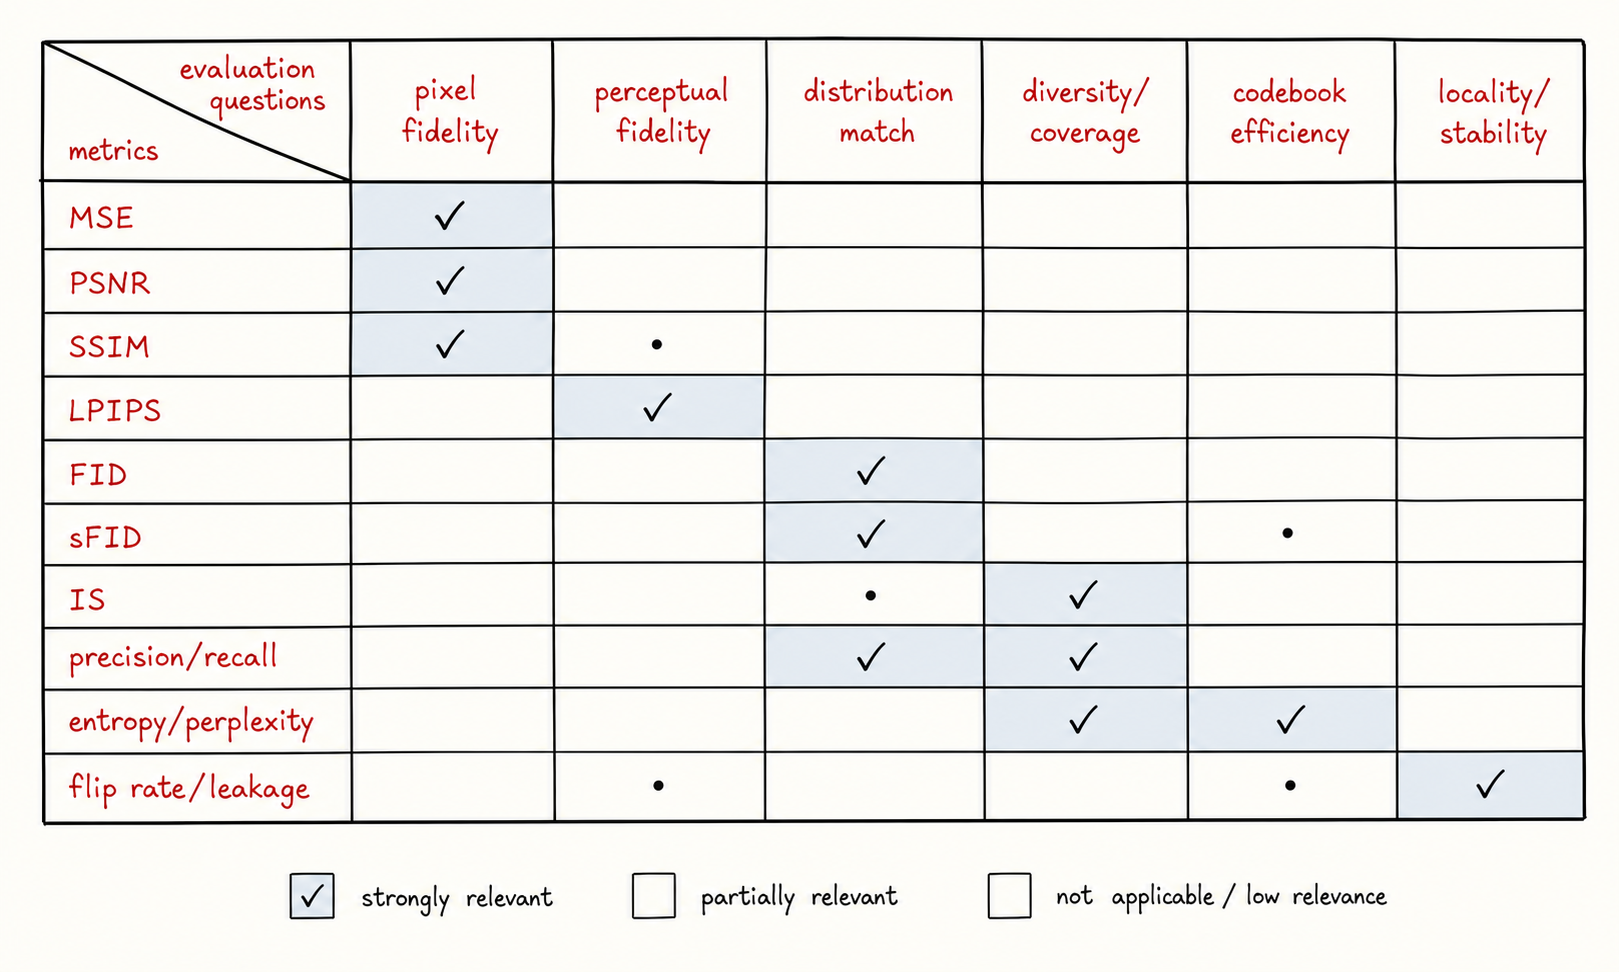
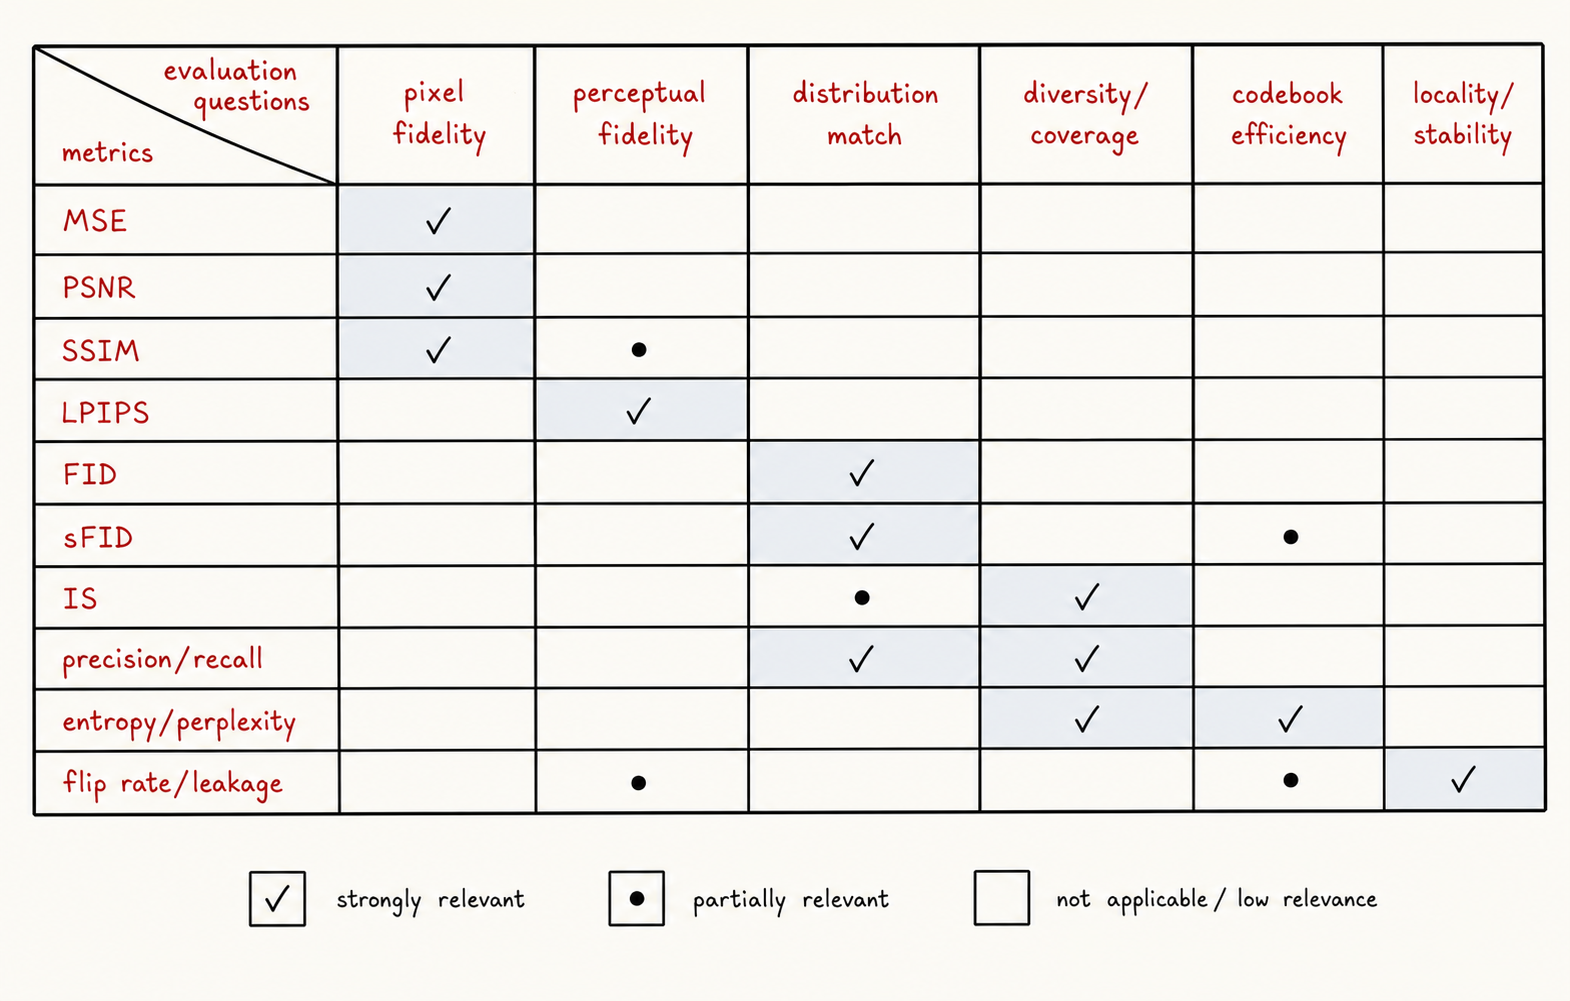
Refine thesis equations and Chapter 3 datasets

Changed region(s): [[0.0, 0.0309, 0.9987, 0.9568]]

diff --git a/Chapters/ch03_datasets_models_metrics.tex b/Chapters/ch03_datasets_models_metrics.tex
@@ -93,7 +93,23 @@ ImageNet-Sketch (Wang et al., 2019) emphasizes shape over texture, so it is a st
 \subsection{Other Candidate Datasets}
 \label{subsec:other_candidate_datasets}
 
-Additional OOD datasets may be used for ablations, but the core analysis uses the three datasets above to keep distribution-shift conclusions interpretable.
+The three datasets above are all ImageNet-derived or ImageNet-aligned: ImageNet validation is the in-distribution reference, ImageNet-V2 keeps the same label space under a new natural-image collection process, and ImageNet-Sketch keeps the ImageNet label space but changes the visual style. To test whether conclusions depend only on ImageNet-like semantics, the broader dataset suite also includes non-ImageNet datasets: ObjectNet~\cite{barbu2019objectnet}, BloodMNIST and OrganAMNIST from MedMNIST v2~\cite{yang2023medmnist}, and RVL-CDIP~\cite{harley2015rvlcdip}. These datasets were chosen because they change not only appearance but also domain: controlled household objects, microscopic blood-cell images, abdominal CT slices, and scanned document pages.
+
+\begin{table}[h]
+    \centering
+    \small
+    \begin{tabularx}{\textwidth}{l l r l}
+        \textbf{Dataset} & \textbf{Content} & \textbf{Images used} & \textbf{Hypothesized shift from ImageNet variants} \\ \hline
+        ObjectNet & controlled object photos with varied viewpoints and backgrounds & 50{,}273 & medium--high: natural objects remain, but pose/background biases differ \\
+        BloodMNIST & microscopic RGB blood-cell images, 8 classes & 17{,}092 & high: biomedical microscopy, local texture dominates over natural scenes \\
+        OrganAMNIST & abdominal CT slices, 11 organ classes & 57{,}187 & very high: grayscale medical imaging with different intensity statistics \\
+        RVL-CDIP & scanned document pages, 16 document classes & 39{,}996 & very high: document layout and text-like structure rather than natural images \\
+    \end{tabularx}
+    \caption{Non-ImageNet datasets used for additional distribution-shift analysis. The table reports the number of images used in the tokenizer experiments, not necessarily the full source-dataset size; RVL-CDIP, for example, is a 400{,}000-image dataset in full.}
+    \label{tab:non_imagenet_datasets}
+\end{table}
+
+These datasets are not treated as replacements for the ImageNet-based severity ladder. Instead, they are used as domain-shift checks: if a tokenizer's codebook statistics remain stable on ImageNet-V2 and ImageNet-Sketch but change strongly on medical or document images, the result suggests domain specialization rather than a generic failure of the measurement pipeline.
 
 \begin{figure}[t]
     \centering
@@ -105,7 +121,7 @@ Additional OOD datasets may be used for ablations, but the core analysis uses th
 \section{Metrics}
 \label{sec:metrics}
 
-No single scalar captures all of these properties simultaneously, so the metrics below are intentionally redundant. Each section defines the metric and explains its limitations and how it is used in combination with the others.
+No single scalar captures all of these properties simultaneously, so the metrics below are intentionally redundant. The metric taxonomy in Figure~\ref{fig:metric_taxonomy_matrix} is organized around six evaluation criteria, defined before the individual metrics.
 
 \begin{figure}[t]
     \centering
@@ -114,15 +130,31 @@ No single scalar captures all of these properties simultaneously, so the metrics
     \label{fig:metric_taxonomy_matrix}
 \end{figure}
 
+\subsection{Evaluation Criteria}
+\label{subsec:evaluation_criteria}
+
+The columns in Figure~\ref{fig:metric_taxonomy_matrix} refer to the following criteria:
+
+\begin{itemize}
+\item \textbf{Pixel fidelity}: agreement between an input image $x$ and reconstruction $\hat{x}$ at the level of aligned pixel intensities. This criterion is sensitive to small spatial shifts and low-level errors.
+\item \textbf{Perceptual fidelity}: agreement between $x$ and $\hat{x}$ in terms of visual structure or learned feature representations. This criterion is intended to better approximate human perceptual similarity than raw pixel error.
+\item \textbf{Distribution match}: similarity between the empirical distribution of reconstructed or generated images and the reference image distribution in a feature space.
+\item \textbf{Diversity/coverage}: the extent to which reconstructions or generated samples cover the modes of the reference distribution rather than concentrating on a narrow subset.
+\item \textbf{Codebook efficiency}: how effectively the tokenizer uses its discrete vocabulary, including active-code count, entropy, perplexity, and concentration in frequent codes.
+\item \textbf{Locality/stability}: how spatially confined and stable the tokenizer response is under perturbations, either in image space through the encoder or in token space through the decoder.
+\end{itemize}
+
+These criteria are not mutually exclusive. For example, SSIM partly reflects perceptual structure while still being computed from image-space comparisons, and precision/recall connects distributional quality with coverage. The taxonomy should therefore be read as a guide to interpretation rather than a strict partition of metrics.
+
 \subsection{Pixel-Domain Reconstruction Metrics (MSE, PSNR)}
 \label{subsec:mse_psnr}
 
 Mean squared error (MSE) and peak signal-to-noise ratio (PSNR) are full-reference pixel metrics. For image pairs $(x, \hat{x})$ with $N$ scalar pixels:
 
-\begin{align}
-\mathrm{MSE}(x, \hat{x}) &= \frac{1}{N} \sum_i (x_i - \hat{x}_i)^2 \\
+\begin{alignat}{2}
+\mathrm{MSE}(x, \hat{x})  &= \frac{1}{N} \sum_i (x_i - \hat{x}_i)^2 \\
 \mathrm{PSNR}(x, \hat{x}) &= 10\,\log_{10}\!\left(\frac{\mathrm{MAX}^2}{\mathrm{MSE}}\right)
-\end{align}
+\end{alignat}
 
 For normalized images in $[0,1]$, $\mathrm{MAX}=1$. Lower MSE and higher PSNR indicate better pixel agreement. They are useful for reconstruction baselines and perturbation deltas, but poor proxies for perceptual realism on their own.
 
@@ -199,14 +231,14 @@ Let $K$ be codebook size and $p_k$ be empirical token frequency for code $k$. A 
 
 This thesis defines quantities from the raw empirical distribution by default, but active-subset analyses also report an effective-support criterion when the distinction affects conclusions.
 
-\begin{align}
-\mathrm{raw\_active\_count} &= \#\{k\,|\,p_k > 0\} \\
+\begin{alignat}{2}
+\mathrm{raw\_active\_count}       &= \#\{k\,|\,p_k > 0\} \\
 \mathrm{effective\_active\_count} &= \#\{k\,|\,\mathrm{count}(k) \ge \tau\} \\
-\mathrm{active\_fraction} &= \frac{\mathrm{active\_count}}{K} \\
-H &= -\sum_k p_k\log p_k \\
-\mathrm{perplexity} &= \exp(H) \\
-\mathrm{top\text{-}k\ mass} &= \sum_{j\in \mathrm{top\text{-}k\ codes}} p_j
-\end{align}
+\mathrm{active\_fraction}         &= \frac{\mathrm{raw\_active\_count}}{K} \\
+H                                 &= -\sum_k p_k \log p_k \\
+\mathrm{perplexity}               &= \exp(H) \\
+\mathrm{top\text{-}k\ mass}       &= \sum_{j\in \mathrm{top\text{-}k\ codes}} p_j
+\end{alignat}
 
 Here $\tau$ denotes a minimum frequency threshold chosen to suppress one-off or extremely rare codes when needed for robustness analyses. An equivalent alternative is to define the effective subset by cumulative mass, for example the smallest set of codes whose frequencies account for $99.9\%$ of all assignments.
 
@@ -219,10 +251,10 @@ Active fraction and perplexity measure effective vocabulary size. Top-$k$ mass m
 
 For clean tokens $t$ and perturbed tokens $t'$, define token flip indicators $\mathbb{1}[t_i \ne t'_i]$.
 
-\begin{align}
-\mathrm{flip\_rate}(\mathrm{region}) &= \mathrm{mean}_{i\in \mathrm{region}}\,\mathbb{1}[t_i \ne t'_i] \\
-\mathrm{leakage\_ratio} &= \frac{\mathrm{flip\_rate}(\mathrm{outside\_region})}{\mathrm{flip\_rate}(\mathrm{inside\_region})}
-\end{align}
+\begin{alignat}{2}
+\mathrm{flip\_rate}(\mathrm{region}) &= \mathrm{mean}_{i \in \mathrm{region}}\,\mathbb{1}[t_i \ne t'_i] \\
+\mathrm{leakage\_ratio}              &= \frac{\mathrm{flip\_rate}(\mathrm{outside\_region})}{\mathrm{flip\_rate}(\mathrm{inside\_region})}
+\end{alignat}
 
 Encoder-locality metrics use token-space regions induced by image-space perturbation masks. Decoder-locality metrics use image-space change inside/outside edited token patches, together with patch/full-image PSNR, SSIM, and LPIPS.
 
@@ -235,14 +267,4 @@ For global perturbation experiments, robustness is reported as metric degradatio
     \label{fig:locality_leakage_curve}
 \end{figure}
 
-\subsection{Reporting Protocol}
-\label{subsec:reporting_protocol}
-
-To prevent over-interpreting single scalars, each metric is reported with its distribution over samples:
-\begin{itemize}
-\item mean and standard deviation over samples
-\item when relevant, bootstrap confidence intervals
-\item paired comparisons for clean vs perturbed variants on the same images
-\end{itemize}
-
-All claims in later chapters are based on multiple metrics together, not on a single number.
+The next chapters apply these metrics to the five research questions, moving from baseline reconstruction and codebook usage to perturbation robustness, locality, and distribution shift.

diff --git a/Chapters/ch02_background.tex b/Chapters/ch02_background.tex
@@ -55,21 +55,21 @@ The Vector Quantised Variational Autoencoder (VQ-VAE) introduced a discrete late
 
 In simplified form:
 
-\begin{align}
-z_e &= \mathrm{Encoder}(x) \\
-k &= \arg\min_j \lVert z_e - e_j \rVert_2 \\
-z_q &= e_k \\
+\begin{alignat}{2}
+z_e   &= \mathrm{Encoder}(x) \\
+k     &= \arg\min_j \lVert z_e - e_j \rVert_2 \\
+z_q   &= e_k \\
 \hat{x} &= \mathrm{Decoder}(z_q)
-\end{align}
+\end{alignat}
 
 Here, $e_j$ is a codebook vector and $k$ is the discrete token ID.
 
 More explicitly, an encoder maps an image $x$ to a latent tensor $z_e(x)$ with spatial dimensions $h \times w$ and channel dimension $d$. Each vector $z_e(x)_{u,v}$ is replaced by the nearest entry in a learned codebook $E = \{e_1, \ldots, e_K\}$. The result is both a quantized latent tensor $z_q$ and an integer token grid $k$:
 
-\begin{align}
-k_{u,v} &= \arg\min_j \lVert z_e(x)_{u,v} - e_j \rVert_2 \\
+\begin{alignat}{2}
+k_{u,v}      &= \arg\min_j \lVert z_e(x)_{u,v} - e_j \rVert_2 \\
 z_q(x)_{u,v} &= e_{k_{u,v}}
-\end{align}
+\end{alignat}
 
 The decoder receives $z_q$, not the original continuous encoder output. This forces image information through a finite vocabulary. The codebook size $K$ controls the nominal number of possible visual symbols, while the spatial grid size controls how many symbols represent one image.
 
@@ -194,11 +194,11 @@ These behaviors are not secondary implementation details. They affect the sequen
 
 For the second-stage autoregressive model, training follows the same conditional factorization used in language models, but over visual token indices:
 
-\begin{align}
-\text{given sequence } s &= (s_0, s_1, \ldots, s_n), \\
-\text{model learns } &p(s_i \mid s_0, \ldots, s_{i-1}) \text{ for each } i, \\
-p(s) &= \prod_i p(s_i \mid s_{<i}).
-\end{align}
+\begin{alignat}{2}
+\text{given sequence}\quad s      &= (s_0, s_1, \ldots, s_n), \\
+\text{model learns}\quad p(s_i \mid s_{<i}) & \text{ for each } i, \\
+p(s)                             &= \prod_i p(s_i \mid s_{<i}).
+\end{alignat}
 
 This means that robustness or locality failures in the tokenizer modify the token sequence distribution seen by the transformer, affecting both likelihood and sampling behavior.
 
